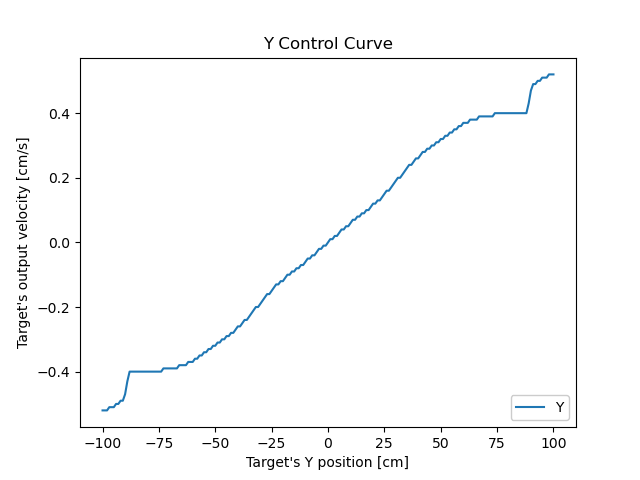
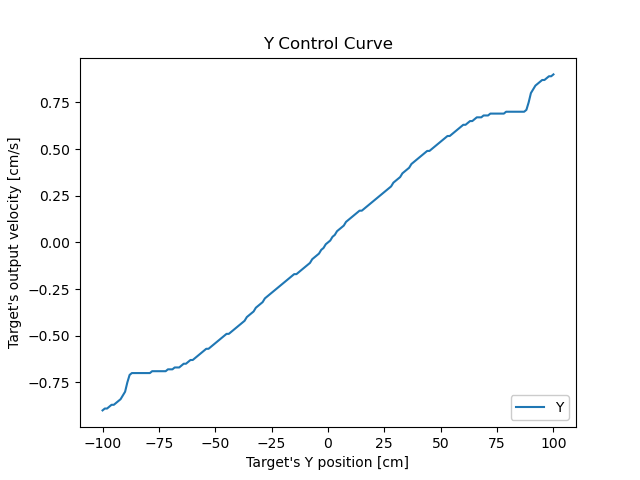
error fix

diff --git a/Controller.py b/Controller.py
@@ -23,26 +23,26 @@ class DroneController:
 
     def SetInputs(self):
         Input_X = []
-        Input_X.append(sf.FuzzySet(function=sf.InvSigmoid_MF(-90, 1), term = "far_left", verbose = self.GetLog()))
-        Input_X.append(sf.FuzzySet(function=sf.Gaussian_MF(-60, 15), term = "left", verbose = self.GetLog()))
-        Input_X.append(sf.FuzzySet(function=sf.Gaussian_MF(-30, 15), term = "slightly_left", verbose = self.GetLog()))
-        Input_X.append(sf.FuzzySet(function=sf.Gaussian_MF(0, 15), term = "center", verbose = self.GetLog()))
-        Input_X.append(sf.FuzzySet(function=sf.Gaussian_MF(30, 15), term = "slightly_right", verbose = self.GetLog()))
-        Input_X.append(sf.FuzzySet(function=sf.Gaussian_MF(60, 15), term = "right", verbose = self.GetLog()))
-        Input_X.append(sf.FuzzySet(function=sf.Sigmoid_MF(90, 1), term = "far_right", verbose = self.GetLog()))
-        lv_X = sf.LinguisticVariable(Input_X, concept = "Difference in marker distance in lateral(x) axis", universe_of_discourse = [-100, 100])
-        self.GetController().add_linguistic_variable("x", lv_X, verbose = self.GetLog())
+        Input_X.append(sf.FuzzySet(function=sf.InvSigmoid_MF(-90, 1), term = "far_left"))
+        Input_X.append(sf.FuzzySet(function=sf.Gaussian_MF(-60, 15), term = "left"))
+        Input_X.append(sf.FuzzySet(function=sf.Gaussian_MF(-30, 15), term = "slightly_left"))
+        Input_X.append(sf.FuzzySet(function=sf.Gaussian_MF(0, 15), term = "center"))
+        Input_X.append(sf.FuzzySet(function=sf.Gaussian_MF(30, 15), term = "slightly_right"))
+        Input_X.append(sf.FuzzySet(function=sf.Gaussian_MF(60, 15), term = "right"))
+        Input_X.append(sf.FuzzySet(function=sf.Sigmoid_MF(90, 1), term = "far_right"))
+        lv_X = sf.LinguisticVariable(Input_X, concept = "Difference in marker distance in lateral(x) axis",universe_of_discourse = [-100, 100])
+        self.GetController().add_linguistic_variable("x", lv_X)
         
         Input_Y = []
-        Input_Y.append(sf.FuzzySet(function=sf.InvSigmoid_MF(-90, 1), term = "far_above", verbose = self.GetLog()))
-        Input_Y.append(sf.FuzzySet(function=sf.Gaussian_MF(-60, 15), term = "above", verbose = self.GetLog()))
-        Input_Y.append(sf.FuzzySet(function=sf.Gaussian_MF(-30, 15), term = "slightly_above", verbose = self.GetLog()))
-        Input_Y.append(sf.FuzzySet(function=sf.Gaussian_MF(0, 15), term = "center", verbose = self.GetLog()))
-        Input_Y.append(sf.FuzzySet(function=sf.Gaussian_MF(30, 15), term = "slightly_below", verbose = self.GetLog()))
-        Input_Y.append(sf.FuzzySet(function=sf.Gaussian_MF(60, 15), term = "below", verbose = self.GetLog()))
-        Input_Y.append(sf.FuzzySet(function=sf.Sigmoid_MF(90, 1), term = "far_below", verbose = self.GetLog()))
+        Input_Y.append(sf.FuzzySet(function=sf.InvSigmoid_MF(-90, 1), term = "far_above"))
+        Input_Y.append(sf.FuzzySet(function=sf.Gaussian_MF(-60, 15), term = "above"))
+        Input_Y.append(sf.FuzzySet(function=sf.Gaussian_MF(-30, 15), term = "slightly_above"))
+        Input_Y.append(sf.FuzzySet(function=sf.Gaussian_MF(0, 15), term = "center"))
+        Input_Y.append(sf.FuzzySet(function=sf.Gaussian_MF(30, 15), term = "slightly_below"))
+        Input_Y.append(sf.FuzzySet(function=sf.Gaussian_MF(60, 15), term = "below"))
+        Input_Y.append(sf.FuzzySet(function=sf.Sigmoid_MF(90, 1), term = "far_below"))
         lv_Y = sf.LinguisticVariable(Input_Y, concept = "Difference in marker distance in vertical(y) axis", universe_of_discourse = [-100, 100])
-        self.GetController().add_linguistic_variable("y", lv_Y, verbose = self.GetLog())
+        self.GetController().add_linguistic_variable("y", lv_Y)
 
         Input_Z = []
         Input_Z.append(sf.FuzzySet(function=sf.Sigmoid_MF(80, 1), term = "too_far", verbose = True))
@@ -53,64 +53,64 @@ class DroneController:
         Input_Z.append(sf.FuzzySet(function=sf.Gaussian_MF(30, 5), term = "close", verbose = True))
         Input_Z.append(sf.FuzzySet(function=sf.InvSigmoid_MF(20, 0.8), term = "too_close", verbose = True))
         lv_Z = sf.LinguisticVariable(Input_Z, concept = "Difference in marker distance in longittual axis", universe_of_discourse = [0, 80])
-        self.GetController().add_linguistic_variable("z", lv_Z, verbose = self.GetLog())
+        self.GetController().add_linguistic_variable("z", lv_Z)
 
         Input_Theta = []
-        Input_Theta.append(sf.FuzzySet(function=sf.Crisp_MF(-70, -60), term = "far_left", verbose = self.GetLog()))
-        Input_Theta.append(sf.FuzzySet(function=sf.Gaussian_MF(-60, 15), term = "left", verbose = self.GetLog()))
-        Input_Theta.append(sf.FuzzySet(function=sf.Gaussian_MF(-30, 15), term = "slightly_left", verbose = self.GetLog()))
-        Input_Theta.append(sf.FuzzySet(function=sf.Gaussian_MF(0, 15), term = "center", verbose = self.GetLog()))
-        Input_Theta.append(sf.FuzzySet(function=sf.Gaussian_MF(30, 15), term = "slightly_right", verbose = self.GetLog()))
-        Input_Theta.append(sf.FuzzySet(function=sf.Gaussian_MF(60, 15), term = "right", verbose = self.GetLog()))
-        Input_Theta.append(sf.FuzzySet(function=sf.Crisp_MF(60, 70), term = "far_right", verbose = self.GetLog()))
+        Input_Theta.append(sf.FuzzySet(function=sf.Crisp_MF(-70, -60), term = "far_left"))
+        Input_Theta.append(sf.FuzzySet(function=sf.Gaussian_MF(-60, 15), term = "left"))
+        Input_Theta.append(sf.FuzzySet(function=sf.Gaussian_MF(-30, 15), term = "slightly_left"))
+        Input_Theta.append(sf.FuzzySet(function=sf.Gaussian_MF(0, 15), term = "center"))
+        Input_Theta.append(sf.FuzzySet(function=sf.Gaussian_MF(30, 15), term = "slightly_right"))
+        Input_Theta.append(sf.FuzzySet(function=sf.Gaussian_MF(60, 15), term = "right"))
+        Input_Theta.append(sf.FuzzySet(function=sf.Crisp_MF(60, 70), term = "far_right"))
         lv_Theta = sf.LinguisticVariable(Input_Theta, concept = "Difference in marker angle in yaw/theta axis", universe_of_discourse = [-70, 70])
-        self.GetController().add_linguistic_variable("theta", lv_Theta, verbose = self.GetLog())
+        self.GetController().add_linguistic_variable("theta", lv_Theta)
 
     def SetOutputs(self):       
         Outputs_X = []
-        Outputs_X.append(sf.FuzzySet(points=[[-0.6, 1.0], [-0.4, 0.0]], term = "hard_left", verbose = self.GetLog()))
-        Outputs_X.append(sf.FuzzySet(function=sf.Triangular_MF(-0.6, -0.4, -0.2), term = "left", verbose = self.GetLog()))
-        Outputs_X.append(sf.FuzzySet(function=sf.Triangular_MF(-0.4, -0.2, -0.0), term = "soft_left", verbose = self.GetLog()))
-        Outputs_X.append(sf.FuzzySet(function=sf.Gaussian_MF(0, 0.1), term = "stop", verbose = self.GetLog()))
-        Outputs_X.append(sf.FuzzySet(function=sf.Triangular_MF(0.0, 0.2, 0.4), term = "soft_right", verbose = self.GetLog()))
-        Outputs_X.append(sf.FuzzySet(function=sf.Triangular_MF(0.2, 0.4, 0.6), term = "right", verbose = self.GetLog()))
-        Outputs_X.append(sf.FuzzySet(points=[[0.4, 0.0], [0.6, 1.0]], term = "hard_right", verbose = self.GetLog()))
-        lv_X = sf.LinguisticVariable(Outputs_X, concept = "Velocity in lateral(x) axis", universe_of_discourse = [-0.6, 0.6])
-        self.GetController().add_linguistic_variable("output_x", lv_X, verbose = self.GetLog())
+        Outputs_X.append(sf.FuzzySet(points=[[-1.0, 1.0], [-0.8, 0.0]], term = "hard_left"))
+        Outputs_X.append(sf.FuzzySet(function=sf.Triangular_MF(-1.0, -0.7, -0.4), term = "left"))
+        Outputs_X.append(sf.FuzzySet(function=sf.Triangular_MF(-0.6, -0.3, -0.0), term = "soft_left"))
+        Outputs_X.append(sf.FuzzySet(function=sf.Gaussian_MF(0, 0.1), term = "stop"))
+        Outputs_X.append(sf.FuzzySet(function=sf.Triangular_MF(0.0, 0.3, 0.6), term = "soft_right"))
+        Outputs_X.append(sf.FuzzySet(function=sf.Triangular_MF(0.4, 0.7, 1.0), term = "right"))
+        Outputs_X.append(sf.FuzzySet(points=[[0.8, 0.0], [1.0, 1.0]], term = "hard_right"))
+        lv_X = sf.LinguisticVariable(Outputs_X, concept = "Velocity in lateral(x) axis", universe_of_discourse = [-1.0, 1.0])
+        self.GetController().add_linguistic_variable("output_x", lv_X)
         
         Outputs_Y = []
-        Outputs_Y.append(sf.FuzzySet(points=[[-0.6, 1.0], [-0.4, 0.0]], term = "ascend_hard", verbose = self.GetLog()))
-        Outputs_Y.append(sf.FuzzySet(function=sf.Triangular_MF(-0.6, -0.4, -0.2), term = "ascend", verbose = self.GetLog()))
-        Outputs_Y.append(sf.FuzzySet(function=sf.Triangular_MF(-0.4, -0.2, -0.0), term = "ascend_light", verbose = self.GetLog()))
-        Outputs_Y.append(sf.FuzzySet(function=sf.Gaussian_MF(0, 0.1), term = "hover", verbose = self.GetLog()))
-        Outputs_Y.append(sf.FuzzySet(function=sf.Triangular_MF(0.0, 0.2, 0.4), term = "descend_light", verbose = self.GetLog()))
-        Outputs_Y.append(sf.FuzzySet(function=sf.Triangular_MF(0.2, 0.4, 0.6), term = "descend", verbose = self.GetLog()))
-        Outputs_Y.append(sf.FuzzySet(points=[[0.4, 0.0], [0.6, 1.0]], term = "descend_hard", verbose = self.GetLog()))
-        lv_Y = sf.LinguisticVariable(Outputs_Y, concept = "Velocity in vertical(y) axis", universe_of_discourse = [-0.6, 0.6])
-        self.GetController().add_linguistic_variable("output_y", lv_Y, verbose = self.GetLog())
+        Outputs_Y.append(sf.FuzzySet(points=[[-1.0, 1.0], [-0.8, 0.0]], term = "ascend_hard"))
+        Outputs_Y.append(sf.FuzzySet(function=sf.Triangular_MF(-1.0, -0.7, -0.4), term = "ascend"))
+        Outputs_Y.append(sf.FuzzySet(function=sf.Triangular_MF(-0.6, -0.3, -0.0), term = "ascend_light"))
+        Outputs_Y.append(sf.FuzzySet(function=sf.Gaussian_MF(0, 0.1), term = "hover"))
+        Outputs_Y.append(sf.FuzzySet(function=sf.Triangular_MF(0.0, 0.3, 0.6), term = "descend_light"))
+        Outputs_Y.append(sf.FuzzySet(function=sf.Triangular_MF(0.4, 0.7, 1.0), term = "descend"))
+        Outputs_Y.append(sf.FuzzySet(points=[[0.8, 0.0], [1.0, 1.0]], term = "descend_hard"))
+        lv_Y = sf.LinguisticVariable(Outputs_Y, concept = "Velocity in vertical(y) axis", universe_of_discourse = [-1.0, 1.0])
+        self.GetController().add_linguistic_variable("output_y", lv_Y)
     
     
         Outputs_Z = []
-        Outputs_Z.append(sf.FuzzySet(points=[[-0.5, 1.0], [-0.3, 0.0]], term = "fast_reverse", verbose = self.GetLog()))
-        Outputs_Z.append(sf.FuzzySet(function=sf.Triangular_MF(-0.5, -0.3, -0.1), term = "reverse", verbose = self.GetLog()))
-        Outputs_Z.append(sf.FuzzySet(function=sf.Triangular_MF(-0.3, -0.1, -0.0), term = "slow_reverse", verbose = self.GetLog()))
-        Outputs_Z.append(sf.FuzzySet(function=sf.Gaussian_MF(0, 0.1), term = "stop", verbose = self.GetLog()))
-        Outputs_Z.append(sf.FuzzySet(function=sf.Triangular_MF(0.0, 0.1, 0.3), term = "slow_forward", verbose = self.GetLog()))
-        Outputs_Z.append(sf.FuzzySet(function=sf.Triangular_MF(0.1, 0.3, 0.5), term = "forward", verbose = self.GetLog()))
-        Outputs_Z.append(sf.FuzzySet(points=[[0.3, 0.0], [0.5, 1.0]], term = "fast_forward", verbose = self.GetLog()))
+        Outputs_Z.append(sf.FuzzySet(points=[[-0.5, 1.0], [-0.3, 0.0]], term = "fast_reverse"))
+        Outputs_Z.append(sf.FuzzySet(function=sf.Triangular_MF(-0.5, -0.3, -0.1), term = "reverse"))
+        Outputs_Z.append(sf.FuzzySet(function=sf.Triangular_MF(-0.3, -0.1, -0.0), term = "slow_reverse"))
+        Outputs_Z.append(sf.FuzzySet(function=sf.Gaussian_MF(0, 0.1), term = "stop"))
+        Outputs_Z.append(sf.FuzzySet(function=sf.Triangular_MF(0.0, 0.1, 0.3), term = "slow_forward"))
+        Outputs_Z.append(sf.FuzzySet(function=sf.Triangular_MF(0.1, 0.3, 0.5), term = "forward"))
+        Outputs_Z.append(sf.FuzzySet(points=[[0.3, 0.0], [0.5, 1.0]], term = "fast_forward"))
         lv_Z = sf.LinguisticVariable(Outputs_Z, concept = "Velocity in longitual(z) axis", universe_of_discourse = [-0.5, 0.5])
-        self.GetController().add_linguistic_variable("output_z", lv_Z, verbose = self.GetLog())
+        self.GetController().add_linguistic_variable("output_z", lv_Z)
     
         Outputs_Theta = []
-        Outputs_Theta.append(sf.FuzzySet(points=[[-1.0, 1.0], [-0.8, 0.0]], term = "turn_hard_right", verbose = self.GetLog()))
-        Outputs_Theta.append(sf.FuzzySet(function=sf.Triangular_MF(-1.0, -0.7, -0.4), term = "turn_right", verbose = self.GetLog()))
-        Outputs_Theta.append(sf.FuzzySet(function=sf.Triangular_MF(-0.6, -0.3, -0.0), term = "turn_slightly_right", verbose = self.GetLog()))
-        Outputs_Theta.append(sf.FuzzySet(function=sf.Gaussian_MF(0, 0.1), term = "no_turn", verbose = self.GetLog()))
-        Outputs_Theta.append(sf.FuzzySet(function=sf.Triangular_MF(0.0, 0.3, 0.6), term = "turn_slightly_left", verbose = self.GetLog()))
-        Outputs_Theta.append(sf.FuzzySet(function=sf.Triangular_MF(0.4, 0.7, 1.0), term = "turn_left", verbose = self.GetLog()))
-        Outputs_Theta.append(sf.FuzzySet(points=[[0.8, 0.0], [1.0, 1.0]], term = "turn_hard_left", verbose = self.GetLog()))
+        Outputs_Theta.append(sf.FuzzySet(points=[[-1.0, 1.0], [-0.8, 0.0]], term = "turn_hard_right"))
+        Outputs_Theta.append(sf.FuzzySet(function=sf.Triangular_MF(-1.0, -0.7, -0.4), term = "turn_right"))
+        Outputs_Theta.append(sf.FuzzySet(function=sf.Triangular_MF(-0.6, -0.3, -0.0), term = "turn_slightly_right"))
+        Outputs_Theta.append(sf.FuzzySet(function=sf.Gaussian_MF(0, 0.1), term = "no_turn"))
+        Outputs_Theta.append(sf.FuzzySet(function=sf.Triangular_MF(0.0, 0.3, 0.6), term = "turn_slightly_left"))
+        Outputs_Theta.append(sf.FuzzySet(function=sf.Triangular_MF(0.4, 0.7, 1.0), term = "turn_left"))
+        Outputs_Theta.append(sf.FuzzySet(points=[[0.8, 0.0], [1.0, 1.0]], term = "turn_hard_left"))
         lv_Theta = sf.LinguisticVariable(Outputs_Theta, concept = "Angular velocity in yaw(theta) axis", universe_of_discourse = [-1.0, 1.0])
-        self.GetController().add_linguistic_variable("output_theta", lv_Theta, verbose = self.GetLog())
+        self.GetController().add_linguistic_variable("output_theta", lv_Theta)
     
     def SetRules(self):
         Rules = []

diff --git a/dronecontroller.py b/dronecontroller.py
@@ -201,7 +201,7 @@ class ArucoTelloController():
         plt.legend(loc="upper left")
         plt.xlabel("timestep")
         plt.ylabel("distance to the marker")
-        plt.show()
+        plt.savefig("Fuzzy controller images/positions.png")
         self.is_plottng_done = True
                 
     
